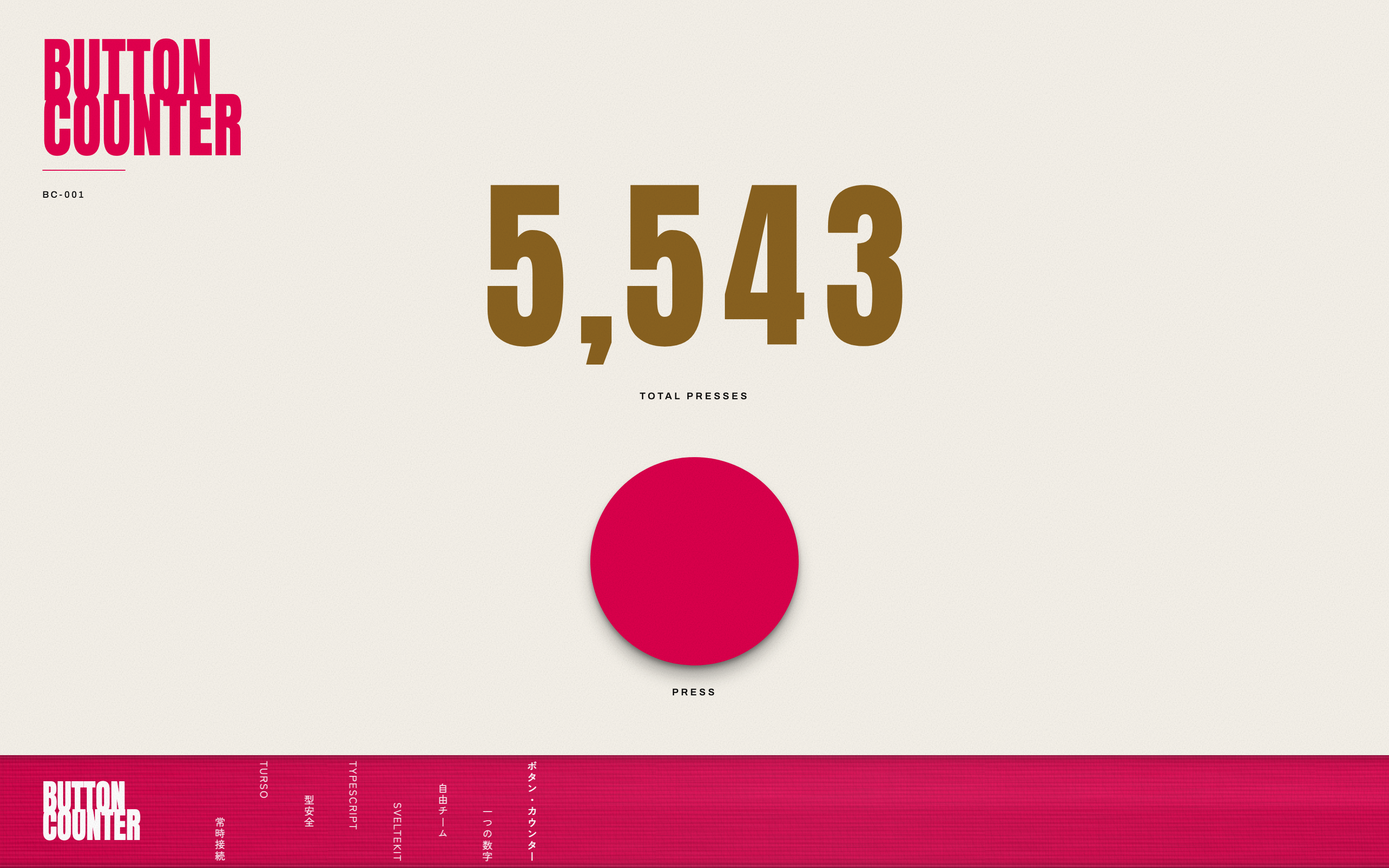
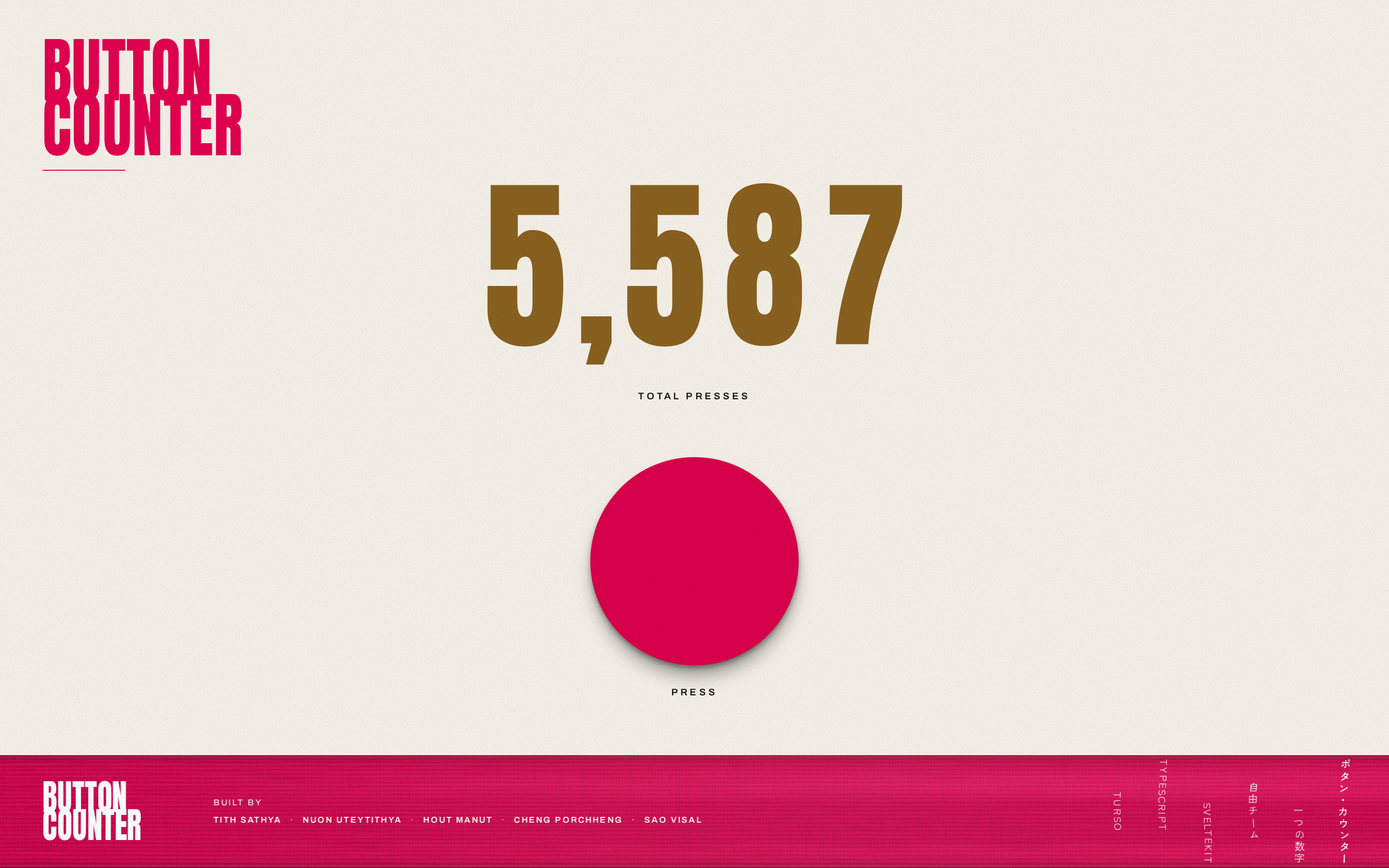
feat: credit the team on the obi band (#39)
The design reserves the band at the foot of the sleeve for credits, so
the five names go there rather than into a separate footer: white label
type on obi red, beside the existing wordmark.

On phones the band only has room for the mark and the names, so the
Japanese columns step aside instead of clipping down to a single column.

diff --git a/src/lib/components/Counter.svelte b/src/lib/components/Counter.svelte
@@ -532,6 +532,18 @@
 				<div class="credits__block">
 					<p class="credits__mark">Button<br />Counter</p>
 				</div>
+
+				<div class="credits__team">
+					<p class="credits__team-title">Built by</p>
+					<ul class="credits__names">
+						<li>Tith Sathya</li>
+						<li>Nuon Uteytithya</li>
+						<li>Hout Manut</li>
+						<li>Cheng Porchheng</li>
+						<li>Sao Visal</li>
+					</ul>
+				</div>
+
 				<div class="vcols" aria-hidden="true">
 					<span class="vcol">ボタン・カウンター</span>
 					<span class="vcol vcol--thin">一つの数字</span>
@@ -1041,6 +1053,53 @@
 		flex: none;
 	}
 
+	.credits__team {
+		flex: 1 1 auto;
+		min-width: 0;
+		display: flex;
+		flex-direction: column;
+		justify-content: center;
+		gap: 0.4rem;
+		color: var(--white);
+		padding-right: clamp(0.6rem, 2vw, 1.6rem);
+	}
+
+	.credits__team-title {
+		margin: 0;
+		font-size: 0.55rem;
+		font-weight: 400;
+		letter-spacing: 0.2em;
+		line-height: 1.4;
+		text-transform: uppercase;
+	}
+
+	.credits__names {
+		margin: 0;
+		padding: 0;
+		list-style: none;
+		display: flex;
+		flex-wrap: wrap;
+		column-gap: 0.55rem;
+		row-gap: 0.15rem;
+		font-size: 0.55rem;
+		font-weight: 600;
+		letter-spacing: 0.18em;
+		line-height: 1.5;
+		text-transform: uppercase;
+	}
+
+	.credits__names li {
+		display: flex;
+		align-items: center;
+		gap: 0.55rem;
+		white-space: nowrap;
+	}
+
+	.credits__names li:not(:last-child)::after {
+		content: '\00b7';
+		font-weight: 400;
+	}
+
 	.vcols {
 		display: flex;
 		flex-direction: row-reverse;
@@ -1097,6 +1156,7 @@
 	}
 
 	.band--edge .vcols {
+		flex: 0 1 auto;
 		justify-content: flex-end;
 		gap: clamp(0.7rem, 2.2vw, 1.9rem);
 		margin-bottom: calc(var(--safe-b) * -1);
@@ -1115,7 +1175,20 @@
 			gap: clamp(2.2rem, 7vh, 4rem);
 		}
 		.credits__block {
-			max-width: 46%;
+			max-width: 34%;
+		}
+		.credits__team {
+			padding-right: 0;
+		}
+		.credits__names {
+			letter-spacing: 0.12em;
+			column-gap: 0.4rem;
+		}
+		.credits__names li {
+			gap: 0.4rem;
+		}
+		.vcols {
+			display: none;
 		}
 		.vcol--en {
 			display: none;
